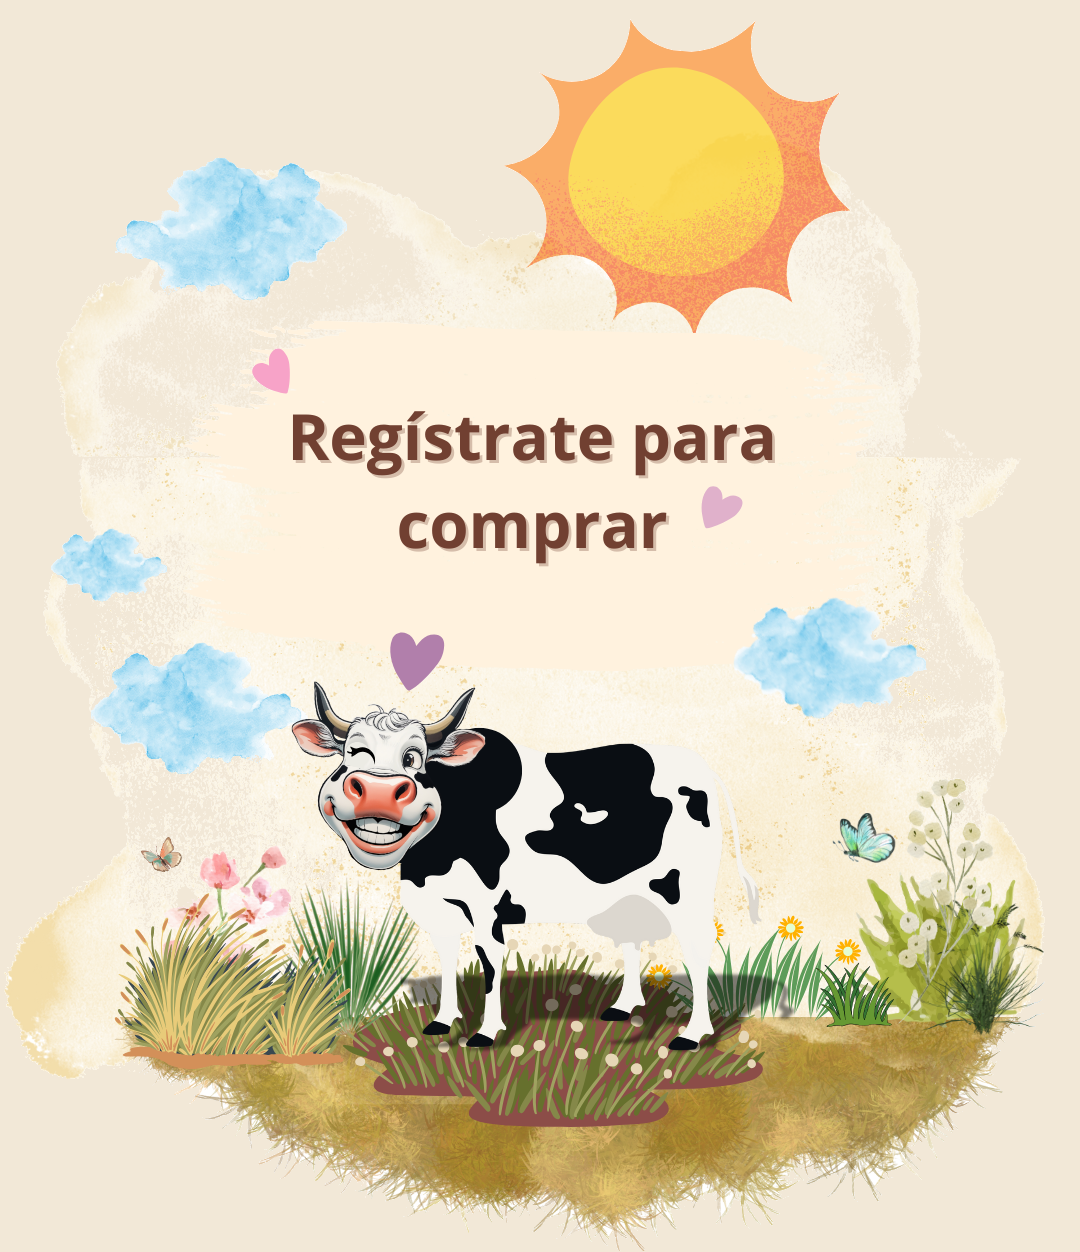
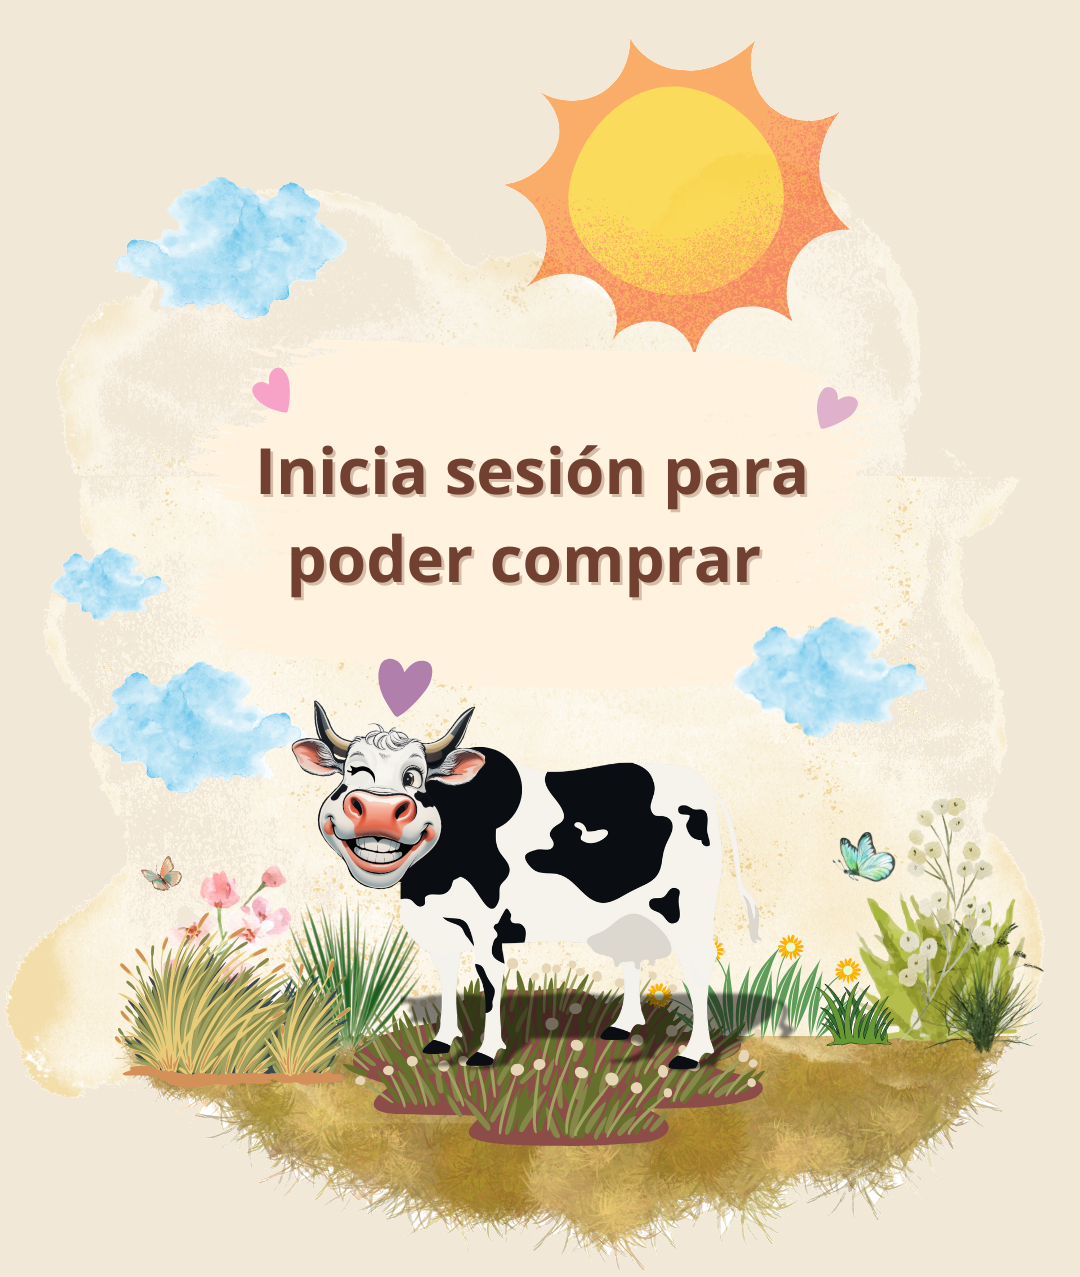
Correccion de errores de cards, cambio de imagen en carrito sin usuario logueado

diff --git a/src/pages/Cart.jsx b/src/pages/Cart.jsx
@@ -44,6 +44,7 @@ import { getProductsFromCart } from "../services/products";
 import carritoVacio from '../assets/carrito-vacio.png'
 import purchase from '../assets/compra.png'
 import register from '../assets/registrate.png'
+import error2 from "../assets/error.png"
 
 const createItemCart = async (id_product, id_user) => {
     const doc = await addDoc(collection(db, "cart_item"), {
@@ -166,7 +167,20 @@ export const Cart = () => {
 
     return (
         <VStack p='35px'>
-            {error && <Text as='b' color='#ff2600'>Hubo un error 😓</Text>}
+            {error &&
+                <Card maxW='sm' bg='#f2e8d7' boxShadow='none'>
+                    <Stack mt='6' spacing='3'>
+                        <Text color='#5f5525' fontSize='2xl' m={{ base: '1.25rem', md: 'unset' }}>Inténtalo de nuevo</Text>
+                    </Stack>
+                    <CardBody>
+                        <Image
+                            src={error2}
+                            alt='Desierto error'
+                            borderRadius='lg'
+                        />
+                    </CardBody>
+                </Card>
+            }
             {!user ?
                 <VStack p='9px'>
                     <Card maxW='sm' bg='#f2e8d7' boxShadow='none'>

diff --git a/src/pages/Home.jsx b/src/pages/Home.jsx
@@ -19,6 +19,7 @@ import {
 } from "@chakra-ui/react"
 import { useAuth } from "../context/AuthContext"
 import { Link } from "react-router-dom"
+import error2 from "../assets/error.png"
 
 const Home = () => {
 
@@ -83,7 +84,8 @@ const Home = () => {
       {loading &&
         <HStack w='100%' marginTop='35px' alignItems='center' justifyContent='center'>
           <Spinner size='xl' color='#ed5940' filter='drop-shadow(2px 5px 4px #ffb5a8)' thickness='10px' />
-        </HStack>}
+        </HStack>
+      }
       <Grid
         templateColumns={{ base: "1fr", sm: "1fr", lg: "repeat(3, 1fr)" }}
         gap={6}
@@ -96,12 +98,13 @@ const Home = () => {
             </Stack>
             <CardBody>
               <Image
-                src={error}
-                alt='Desierto error 404'
+                src={error2}
+                alt='Desierto error'
                 borderRadius='lg'
               />
             </CardBody>
-          </Card>}
+          </Card>
+        }
         {filteredProducts.map((product) => (
           <VStack key={product.id}>
             <Card maxW='sm' bg='#f2e8d700' shadow='unset'>

diff --git a/src/pages/ProductDetail.jsx b/src/pages/ProductDetail.jsx
@@ -10,7 +10,9 @@ import {
     Divider,
     Grid,
     Heading,
+    HStack,
     Image,
+    Spinner,
     Stack,
     Text,
     useToast,
